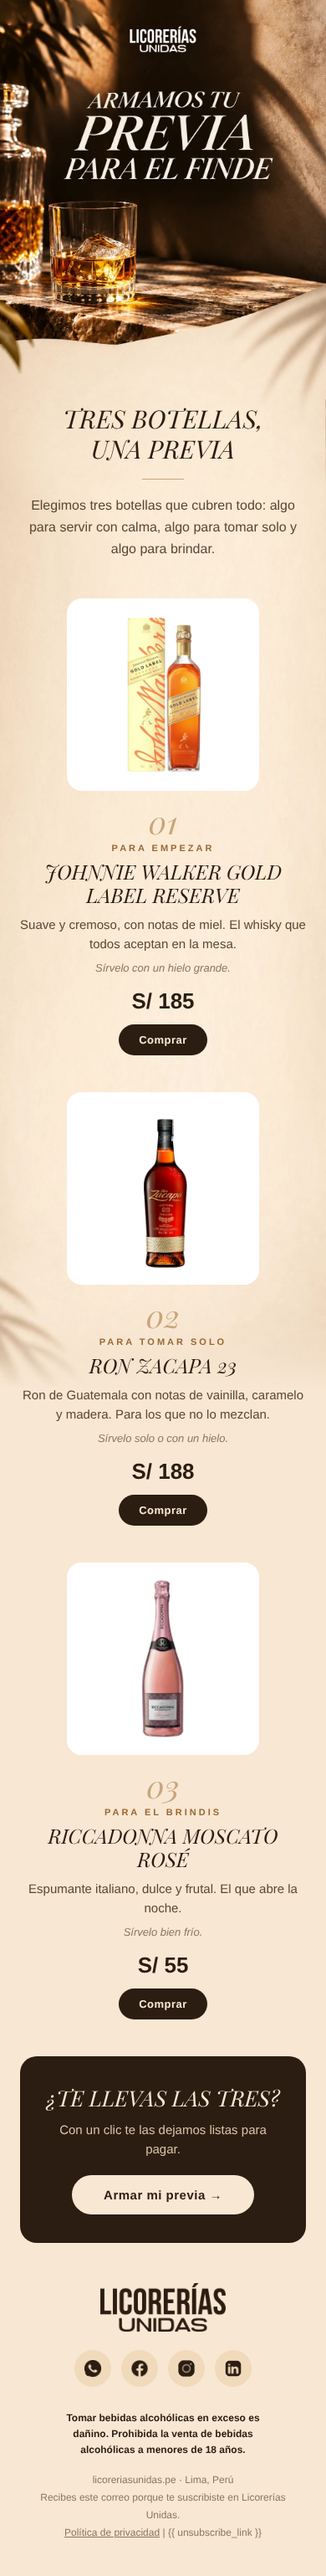
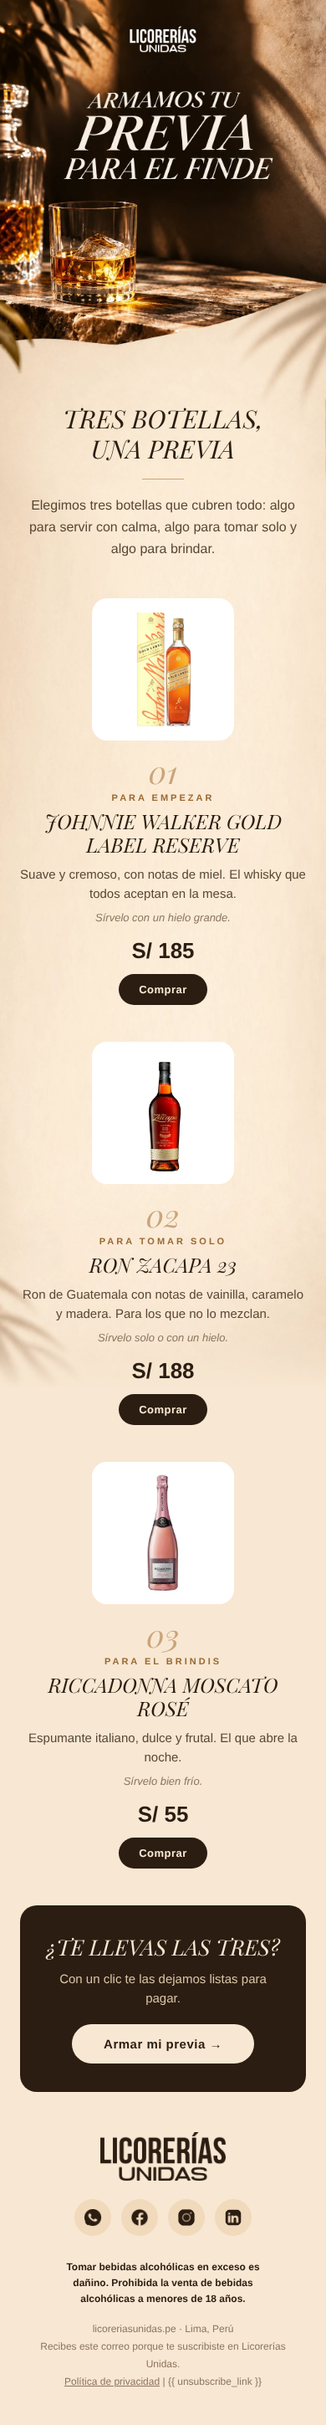
Mailing previa: imágenes más bajas y & escapado en el link de fuentes
Claude-Session: https://claude.ai/code/session_0148WGEnZfS2ZRp3UxJqiBn1

Changed region(s): [[0.0, 0.0, 1.0, 0.9938], [0.8, 0.3416, 0.8615, 0.3727], [0.1231, 0.3416, 0.1538, 0.3727]]

diff --git a/entregables/mailing_nov/2026-11-07_previa.html b/entregables/mailing_nov/2026-11-07_previa.html
@@ -5,7 +5,7 @@
 <meta name="viewport" content="width=device-width,initial-scale=1">
 <meta name="x-apple-disable-message-reformatting">
 <title>Armamos tu previa del finde</title>
-<link href="https://fonts.googleapis.com/css2?family=Playfair+Display:ital,wght@1,400;1,500&display=swap" rel="stylesheet">
+<link href="https://fonts.googleapis.com/css2?family=Playfair+Display:ital,wght@1,400;1,500&amp;display=swap" rel="stylesheet">
 <style>
   body{margin:0;padding:0;background:#F8E7D2}
   a{text-decoration:none}
@@ -42,7 +42,7 @@
 
   <tr><td class="px" style="padding:0 40px 44px">
     <table role="presentation" width="100%" cellpadding="0" cellspacing="0" border="0"><tr>
-        <td dir="ltr" class="col" width="46%" valign="middle" align="center" style="padding:0 10px 0 0"><a href="https://licoreriasunidas.pe/products/whisky-johnnie-walker-gold-label-reserve-botella-750ml"><img src="https://cdn.shopify.com/s/files/1/0723/4165/1736/files/DIADELAMADRE-2026-06-23T181356.122.png?v=1782256507" width="230" alt="Johnnie Walker Gold Label Reserve" style="display:block;width:100%;max-width:230px;height:auto;border:0;border-radius:18px;background:#FFFFFF"></a></td>
+        <td dir="ltr" class="col" width="46%" valign="middle" align="center" style="padding:0 10px 0 0"><a href="https://licoreriasunidas.pe/products/whisky-johnnie-walker-gold-label-reserve-botella-750ml"><img src="https://cdn.shopify.com/s/files/1/0723/4165/1736/files/DIADELAMADRE-2026-06-23T181356.122.png?v=1782256507" width="170" alt="Johnnie Walker Gold Label Reserve" style="display:block;width:100%;max-width:170px;height:auto;border:0;border-radius:18px;background:#FFFFFF"></a></td>
         <td dir="ltr" class="col txt" width="54%" valign="middle" style="padding:0 0 0 14px;font-family:Arial,Helvetica,sans-serif">
           <div style="font-family:'Playfair Display',Georgia,'Times New Roman',serif;font-size:38px;line-height:38px;color:#C9A57A;font-style:italic">01</div>
           <div style="margin-top:6px;font-size:11px;letter-spacing:3px;font-weight:bold;color:#9A6A35">PARA EMPEZAR</div>
@@ -56,7 +56,7 @@
   </td></tr>
   <tr><td class="px" style="padding:0 40px 44px">
     <table role="presentation" width="100%" cellpadding="0" cellspacing="0" border="0"><tr>
-        <td dir="ltr" class="col" width="46%" valign="middle" align="center" style="padding:0 10px 0 0"><a href="https://licoreriasunidas.pe/products/ron-zacapa-23-botella-750ml"><img src="https://cdn.shopify.com/s/files/1/0723/4165/1736/files/cuentas_ebcb6ed9-e3ec-4cbb-9379-eb477525b820.png?v=1746645806" width="230" alt="Ron Zacapa 23" style="display:block;width:100%;max-width:230px;height:auto;border:0;border-radius:18px;background:#FFFFFF"></a></td>
+        <td dir="ltr" class="col" width="46%" valign="middle" align="center" style="padding:0 10px 0 0"><a href="https://licoreriasunidas.pe/products/ron-zacapa-23-botella-750ml"><img src="https://cdn.shopify.com/s/files/1/0723/4165/1736/files/cuentas_ebcb6ed9-e3ec-4cbb-9379-eb477525b820.png?v=1746645806" width="170" alt="Ron Zacapa 23" style="display:block;width:100%;max-width:170px;height:auto;border:0;border-radius:18px;background:#FFFFFF"></a></td>
         <td dir="ltr" class="col txt" width="54%" valign="middle" style="padding:0 0 0 14px;font-family:Arial,Helvetica,sans-serif">
           <div style="font-family:'Playfair Display',Georgia,'Times New Roman',serif;font-size:38px;line-height:38px;color:#C9A57A;font-style:italic">02</div>
           <div style="margin-top:6px;font-size:11px;letter-spacing:3px;font-weight:bold;color:#9A6A35">PARA TOMAR SOLO</div>
@@ -70,7 +70,7 @@
   </td></tr>
   <tr><td class="px" style="padding:0 40px 44px">
     <table role="presentation" width="100%" cellpadding="0" cellspacing="0" border="0"><tr>
-        <td dir="ltr" class="col" width="46%" valign="middle" align="center" style="padding:0 10px 0 0"><a href="https://licoreriasunidas.pe/products/espumante-riccadonna-moscato-rose-botella-750ml"><img src="https://cdn.shopify.com/s/files/1/0723/4165/1736/products/735377f2caba42e9aa9956df07eb5899.webp?v=1677782578" width="230" alt="Riccadonna Moscato Rosé" style="display:block;width:100%;max-width:230px;height:auto;border:0;border-radius:18px;background:#FFFFFF"></a></td>
+        <td dir="ltr" class="col" width="46%" valign="middle" align="center" style="padding:0 10px 0 0"><a href="https://licoreriasunidas.pe/products/espumante-riccadonna-moscato-rose-botella-750ml"><img src="https://cdn.shopify.com/s/files/1/0723/4165/1736/products/735377f2caba42e9aa9956df07eb5899.webp?v=1677782578" width="170" alt="Riccadonna Moscato Rosé" style="display:block;width:100%;max-width:170px;height:auto;border:0;border-radius:18px;background:#FFFFFF"></a></td>
         <td dir="ltr" class="col txt" width="54%" valign="middle" style="padding:0 0 0 14px;font-family:Arial,Helvetica,sans-serif">
           <div style="font-family:'Playfair Display',Georgia,'Times New Roman',serif;font-size:38px;line-height:38px;color:#C9A57A;font-style:italic">03</div>
           <div style="margin-top:6px;font-size:11px;letter-spacing:3px;font-weight:bold;color:#9A6A35">PARA EL BRINDIS</div>
